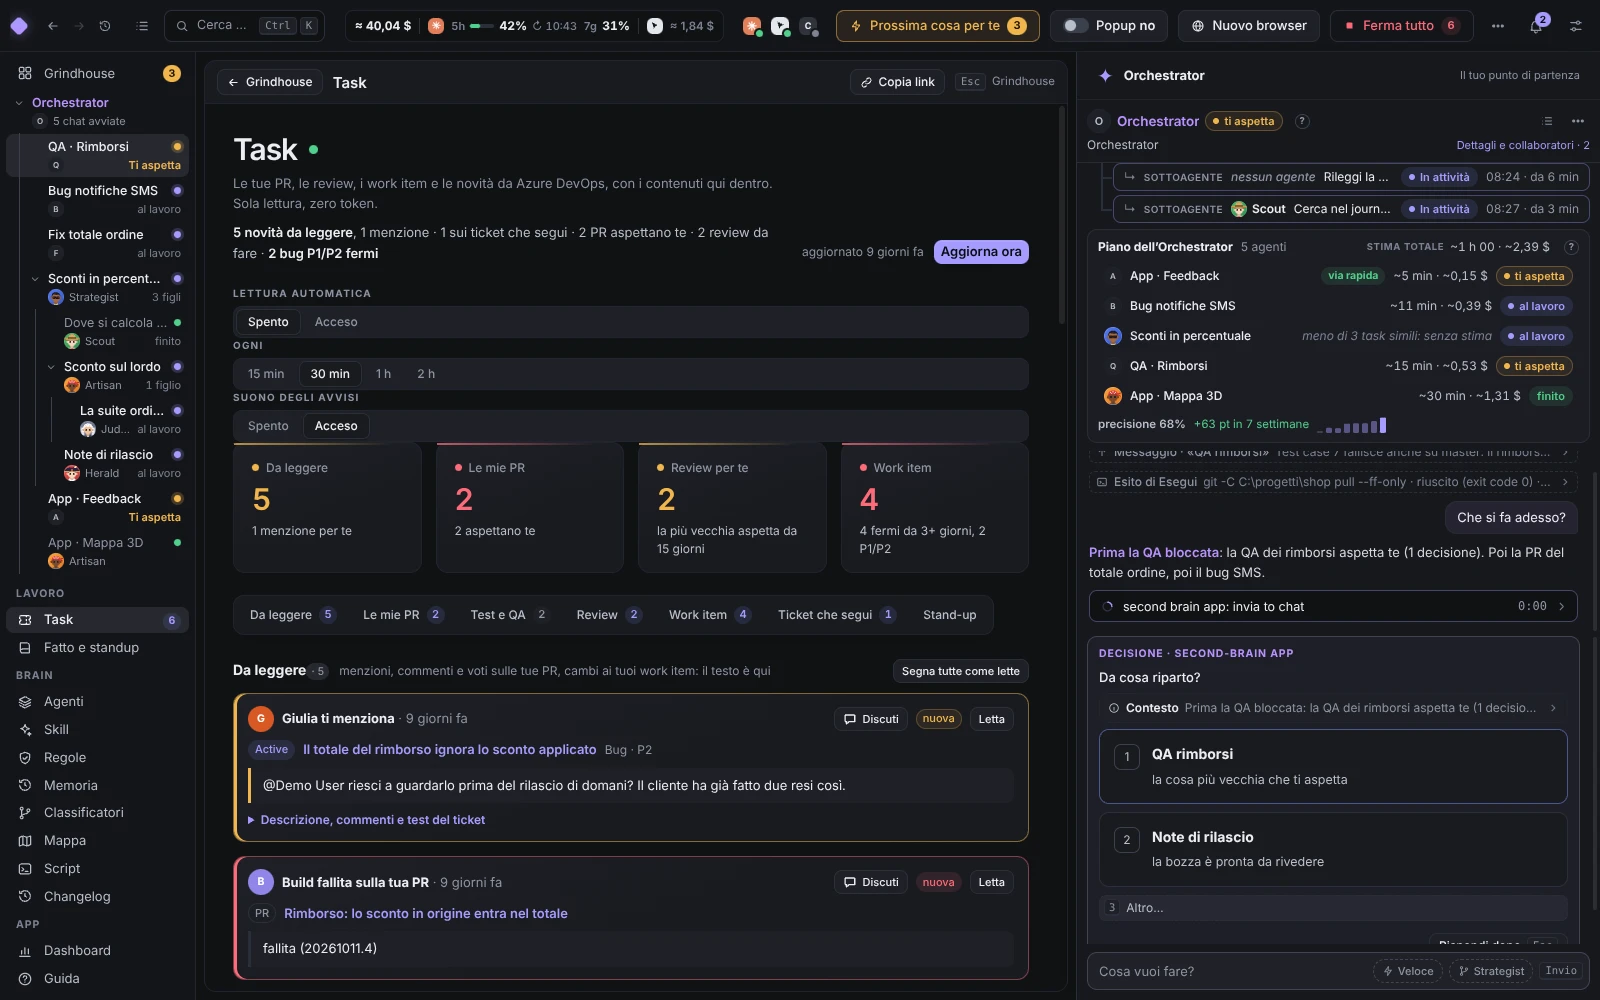
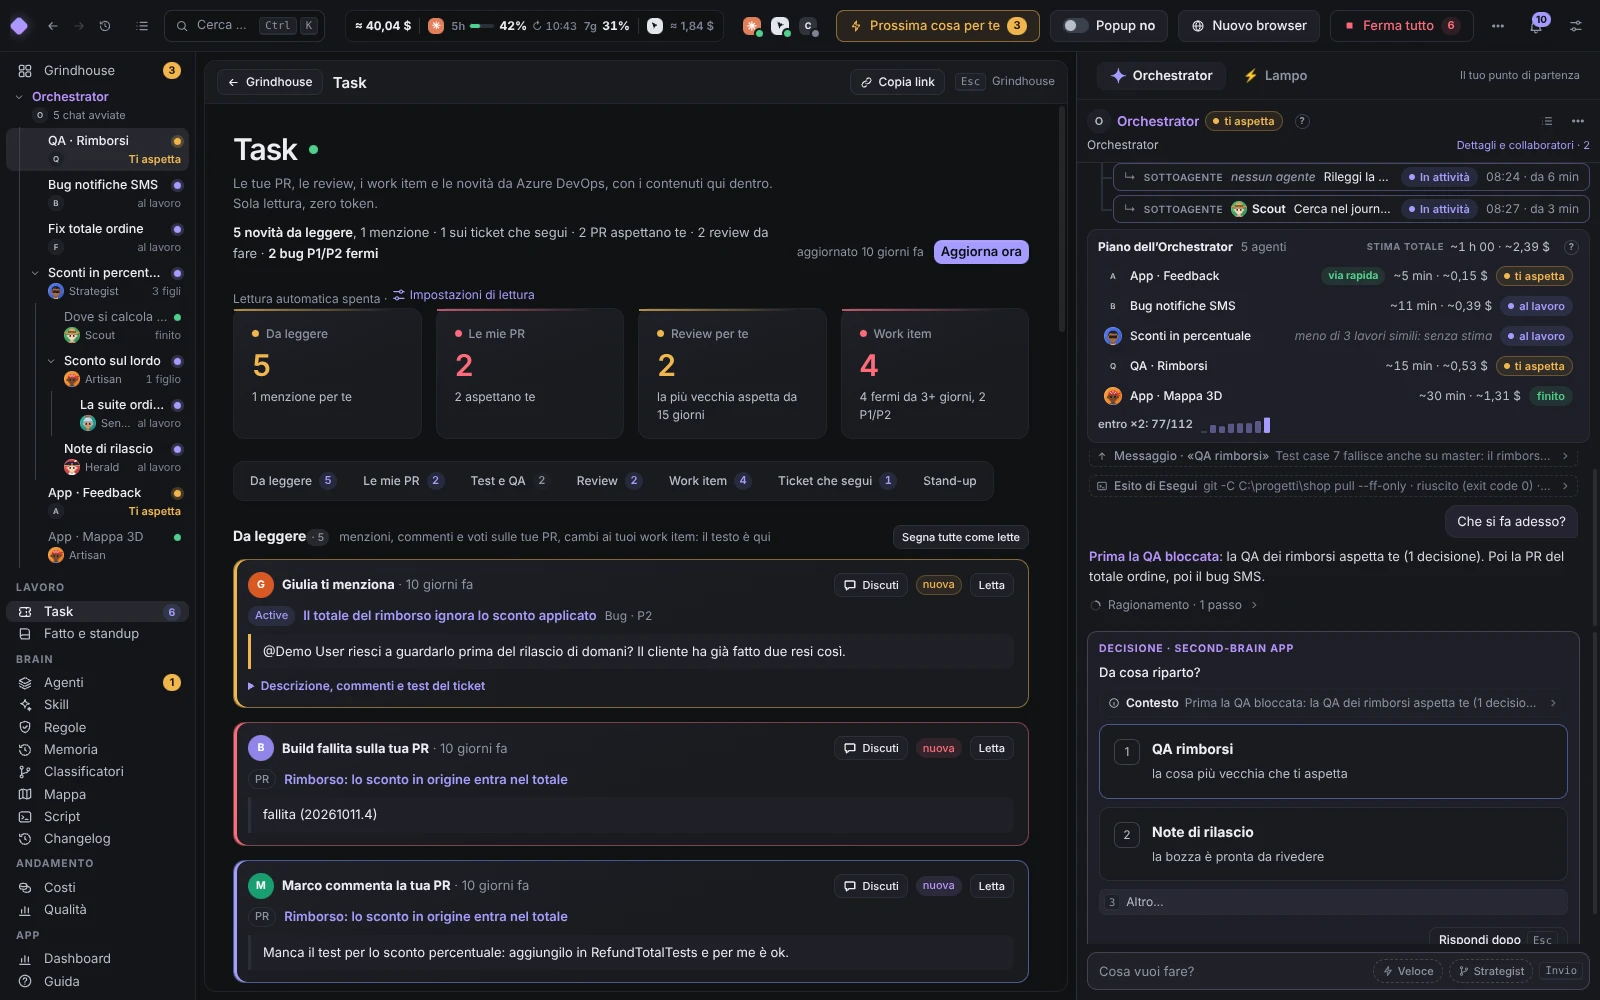
docs(readme): screenshots regenerated with npm run shots; the crew strip shows the six roles
The shots now show the Lampo tab, the Andamento group and the five work roles; crew.webp keeps only the Orchestrator
and the five roles (Router, Judge and Scribe are retired, ADR 0100). Each image looked at before pinning in .guardallow.

Claude-Session: https://claude.ai/code/session_01F3ZSNf4RYmkyDjaWB9nce2

diff --git a/README.md b/README.md
@@ -44,7 +44,7 @@ what they still owe. A child's question goes to its parent first; only what trul
 **🎭 A crew with characters.** The Orchestrator and five work roles, each with its own face, job, skills and model
 tier (ADR 0100):
 
-<p align="center"><img src="docs/screenshots/crew.webp" alt="The six roles: Orchestrator, Strategist, Scout, Artisan, Sentinel, Herald" width="820"></p>
+<p align="center"><img src="docs/screenshots/crew.webp" alt="The six roles: Orchestrator, Strategist, Scout, Artisan, Sentinel, Herald" width="544"></p>
 
 <p align="center"><sub><b>Orchestrator</b> conducts · <b>Strategist</b> plans · <b>Scout</b> explores · <b>Artisan</b> builds and writes · <b>Sentinel</b> tests and reviews · <b>Herald</b> announces</sub></p>
 
